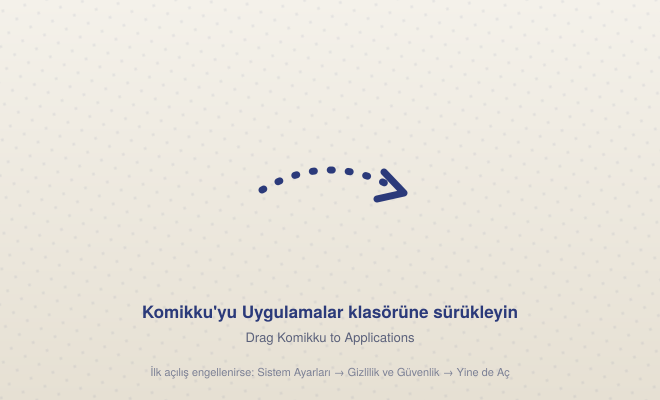
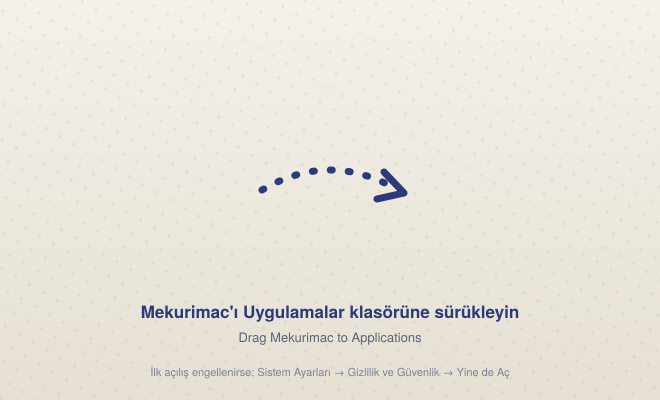
Rename to Mekurimac
The app is now Mekurimac (display name, bundle, release assets, DMG);
the repository moves to yunusemrecan/mekurimac. Unchanged on purpose:
bundle id, data/log folders, keychain items and the komikku:// scheme,
so existing installs keep their library, settings and shortcuts. The
in-app updater accepts both the new and the old asset names.

Claude-Session: https://claude.ai/code/session_01ALiL3CBzs76gALLKhNNmFt

Changed region(s): [[0.2121, 0.75, 0.7879, 0.87]]

diff --git a/app/Sources/Komikku/SettingsView.swift b/app/Sources/Komikku/SettingsView.swift
@@ -59,7 +59,7 @@ struct GeneralSettings: View {
                     .onChange(of: dockBadge) { _, _ in model.updateDockBadge() }
                 Toggle("Kütüphaneyi Spotlight'ta göster", isOn: $spotlight)
                     .onChange(of: spotlight) { _, _ in SpotlightIndex.update(with: model.library) }
-                Toggle("Yeni Komikku sürümlerini denetle", isOn: $checkUpdates)
+                Toggle("Yeni Mekurimac sürümlerini denetle", isOn: $checkUpdates)
                 Toggle("Masaüstü bildirimleri", isOn: Binding(
                     get: { model.settings["desktop-notifications"] as? Bool ?? false },
                     set: { value in Task { @MainActor in await model.setDesktopNotifications(value) } }
@@ -123,7 +123,7 @@ struct AboutSettings: View {
             Image(nsImage: NSApp.applicationIconImage)
                 .resizable()
                 .frame(width: 72, height: 72)
-            Text("Komikku for macOS").font(.title2.bold())
+            Text("Mekurimac").font(.title2.bold())
             Text("Valéry Febvre'nin Komikku uygulamasının macOS arayüzü.\nSunucular ve veri katmanı upstream'den olduğu gibi kullanılır.")
                 .multilineTextAlignment(.center)
                 .foregroundStyle(.secondary)
@@ -132,12 +132,12 @@ struct AboutSettings: View {
             }
             if let commit = Self.buildCommit {
                 Link("Derleme: \(commit.prefix(8))",
-                     destination: URL(string: "https://github.com/yunusemrecan/komikku-mac/tree/\(commit)")!)
+                     destination: URL(string: "https://github.com/yunusemrecan/mekurimac/tree/\(commit)")!)
                     .font(.caption.monospaced())
             }
             Text("GPL-3.0-or-later — özgür yazılım; kaynak kodu aşağıdaki depolarda.")
                 .font(.caption).foregroundStyle(.secondary)
-            Link("github.com/yunusemrecan/komikku-mac", destination: URL(string: "https://github.com/yunusemrecan/komikku-mac")!)
+            Link("github.com/yunusemrecan/mekurimac", destination: URL(string: "https://github.com/yunusemrecan/mekurimac")!)
             Link("codeberg.org/valos/Komikku", destination: URL(string: "https://codeberg.org/valos/Komikku")!)
             HStack {
                 Button("Üçüncü Taraf Lisansları") { Self.open("THIRD-PARTY-NOTICES.txt") }

diff --git a/app/Sources/Komikku/AppUpdater.swift b/app/Sources/Komikku/AppUpdater.swift
@@ -2,7 +2,7 @@
 //
 // In-app update: downloads the release ZIP, checks it against the release's
 // SHA256SUMS, checks the new app's signature, bundle id and build commit, then
-// swaps the app bundle after Komikku quits and starts the new version.
+// swaps the app bundle after the app quits and starts the new version.
 //
 // Falls back to opening the release page when the app cannot replace itself
 // (read-only location, run from the disk image / App Translocation, dev build).
@@ -46,7 +46,7 @@ enum AppUpdater {
         }
         let expected = sums.split(separator: "\n")
             .map { $0.split(separator: " ", omittingEmptySubsequences: true) }
-            .first { $0.count == 2 && $0[1].hasSuffix("Komikku-macos-arm64.zip") }
+            .first { $0.count == 2 && $0[1].hasSuffix(zipURL.lastPathComponent) }
             .map { String($0[0]).lowercased() }
         guard let expected else {
             throw UpdateError.message(String(localized: "SHA256SUMS içinde ZIP'in sağlaması yok"))
@@ -55,7 +55,7 @@ enum AppUpdater {
         guard (response as? HTTPURLResponse)?.statusCode == 200 else {
             throw UpdateError.message(String(localized: "Güncelleme indirilemedi"))
         }
-        let zip = work.appendingPathComponent("Komikku.zip")
+        let zip = work.appendingPathComponent("update.zip")
         try FileManager.default.moveItem(at: downloaded, to: zip)
 
         // 2. Integrity
@@ -74,7 +74,11 @@ enum AppUpdater {
 
         // 3. Unpack and check the new bundle
         try await run("/usr/bin/ditto", ["-x", "-k", zip.path, work.path])
-        let newApp = work.appendingPathComponent("Komikku.app")
+        // Mekurimac.app (or Komikku.app in releases made before the rename)
+        guard let newApp = try FileManager.default.contentsOfDirectory(at: work, includingPropertiesForKeys: nil)
+            .first(where: { $0.pathExtension == "app" }) else {
+            throw UpdateError.message(String(localized: "İndirilen uygulama tanınmadı"))
+        }
         guard let info = NSDictionary(contentsOf: newApp.appendingPathComponent("Contents/Info.plist")),
               info["CFBundleIdentifier"] as? String == Bundle.main.bundleIdentifier else {
             throw UpdateError.message(String(localized: "İndirilen uygulama tanınmadı"))

diff --git a/app/Sources/Komikku/MenuBar.swift b/app/Sources/Komikku/MenuBar.swift
@@ -62,7 +62,7 @@ struct MenuBarContent: View {
         Button("Kütüphaneyi Güncelle") { Task { await model.updateLibrary() } }
             .keyboardShortcut("r")
             .disabled(model.isUpdatingLibrary || model.state != .ready)
-        Button("Komikku'yu Aç") {
+        Button("Mekurimac'ı Aç") {
             openWindow(id: "main")
             NSApp.activate(ignoringOtherApps: true)
         }
@@ -70,7 +70,7 @@ struct MenuBarContent: View {
         Divider()
         SettingsLink { Text("Ayarlar…") }
             .keyboardShortcut(",")
-        Button("Komikku'dan Çık") { NSApp.terminate(nil) }
+        Button("Mekurimac'tan Çık") { NSApp.terminate(nil) }
             .keyboardShortcut("q")
     }
 }
@@ -85,7 +85,7 @@ struct MenuBarLabel: View {
             Image(systemName: model.isUpdatingLibrary ? "arrow.triangle.2.circlepath" : "books.vertical")
             if unread > 0 { Text("\(unread)").monospacedDigit() }
         }
-        .accessibilityLabel(Text("Komikku: \(unread) okunmamış bölüm"))
+        .accessibilityLabel(Text("Mekurimac: \(unread) okunmamış bölüm"))
     }
 }
 

diff --git a/app/Sources/Komikku/UpdateChecker.swift b/app/Sources/Komikku/UpdateChecker.swift
@@ -15,7 +15,7 @@ struct AvailableUpdate: Equatable {
 }
 
 enum UpdateChecker {
-    static let releaseAPI = URL(string: "https://api.github.com/repos/yunusemrecan/komikku-mac/releases/tags/nightly")!
+    static let releaseAPI = URL(string: "https://api.github.com/repos/yunusemrecan/mekurimac/releases/tags/nightly")!
     static let lastCheckKey = "update-last-check"
     static let enabledKey = "check-updates"
 
@@ -64,7 +64,8 @@ enum UpdateChecker {
             }
             return .available(AvailableUpdate(
                 title: json["name"] as? String ?? String(localized: "Yeni sürüm"), pageURL: page, commit: target,
-                zipURL: asset("Komikku-macos-arm64.zip"), checksumsURL: asset("SHA256SUMS")
+                // releases before the rename are named Komikku-…
+                zipURL: asset("Mekurimac-macos-arm64.zip") ?? asset("Komikku-macos-arm64.zip"), checksumsURL: asset("SHA256SUMS")
             ))
         } catch {
             return .unknown(error.localizedDescription)

diff --git a/app/Sources/Komikku/AppModel.swift b/app/Sources/Komikku/AppModel.swift
@@ -168,7 +168,7 @@ final class AppModel {
         case .upToDate:
             availableUpdate = nil
             AppLog.write("update: up to date")
-            if manual { showToast(String(localized: "Komikku güncel")) }
+            if manual { showToast(String(localized: "Mekurimac güncel")) }
         case .unknown(let reason):
             AppLog.write("update: check failed: \(reason)")
             if manual { showToast(String(localized: "Güncelleme denetlenemedi: \(reason)")) }
@@ -316,7 +316,7 @@ final class AppModel {
             if !downloaderRunning { Task { await reloadDownloads() } }
 
         case "app.notification":
-            let title = params["title"] as? String ?? "Komikku"
+            let title = params["title"] as? String ?? "Mekurimac"
             let body = params["body"] as? String
             if settings["desktop-notifications"] as? Bool == true {
                 postNotification(id: params["id"] as? String ?? UUID().uuidString, title: title, body: body)

diff --git a/app/Sources/Komikku/IssueReport.swift b/app/Sources/Komikku/IssueReport.swift
@@ -8,7 +8,7 @@ import AppKit
 
 @MainActor
 enum IssueReport {
-    static let newIssueURL = "https://github.com/yunusemrecan/komikku-mac/issues/new"
+    static let newIssueURL = "https://github.com/yunusemrecan/mekurimac/issues/new"
 
     /// Last `count` lines of a log file, with the home folder path hidden.
     static func tail(_ url: URL, lines count: Int) -> String {
@@ -44,7 +44,7 @@ enum IssueReport {
         ---
         | | |
         |---|---|
-        | Komikku for macOS | \(version) (\(build)), commit `\(commit)` |
+        | Mekurimac | \(version) (\(build)), commit `\(commit)` |
         | Upstream Komikku | `\(model.upstreamCommit ?? "?")` |
         | macOS | \(os), \(arch) |
         | Language | \(language) |

diff --git a/app/Sources/Komikku/BackupUI.swift b/app/Sources/Komikku/BackupUI.swift
@@ -15,7 +15,7 @@ enum BackupUI {
         panel.title = String(localized: "Kütüphaneyi Yedekle")
         panel.message = String(localized: "Kütüphane, kategoriler, okuma geçmişi ve ayarlar tek dosyaya kaydedilir. İndirilen bölümler dahil değildir.")
         let day = Date().formatted(.iso8601.year().month().day())
-        panel.nameFieldStringValue = "Komikku \(day).\(fileExtension)"
+        panel.nameFieldStringValue = "Mekurimac \(day).\(fileExtension)"
         panel.allowedContentTypes = [UTType(filenameExtension: fileExtension) ?? .zip]
         panel.canCreateDirectories = true
         guard panel.runModal() == .OK, let url = panel.url else { return }

diff --git a/app/Sources/Komikku/ContentView.swift b/app/Sources/Komikku/ContentView.swift
@@ -377,7 +377,7 @@ struct Sidebar: View {
                             Button(AppUpdater.canSelfUpdate ? "Güncelle" : "İndir") { model.installUpdate() }
                                 .controlSize(.small)
                                 .help(AppUpdater.canSelfUpdate
-                                      ? "İndirir, doğrular ve Komikku'yu yeni sürümle yeniden başlatır"
+                                      ? "İndirir, doğrular ve Mekurimac'ı yeni sürümle yeniden başlatır"
                                       : "Sürüm sayfasını açar")
                         }
                     }

diff --git a/app/Sources/Komikku/KomikkuApp.swift b/app/Sources/Komikku/KomikkuApp.swift
@@ -52,7 +52,7 @@ struct KomikkuApp: App {
 
     var body: some Scene {
         // A single main window: links and Spotlight results always land in it
-        Window("Komikku", id: "main") {
+        Window("Mekurimac", id: "main") {
             ContentView()
                 .environment(model)
                 .frame(minWidth: 820, minHeight: 520)

diff --git a/scripts/third_party_notices.py b/scripts/third_party_notices.py
@@ -81,8 +81,8 @@ def main():
     copyleft = set()
 
     out.append(
-        "Komikku for macOS — third-party notices\n\n"
-        "Komikku for macOS (https://github.com/yunusemrecan/komikku-mac) is free software\n"
+        "Mekurimac (macOS interface for Komikku) — third-party notices\n\n"
+        "Mekurimac (https://github.com/yunusemrecan/mekurimac) is free software\n"
         "under the GNU General Public License v3.0 or later (see LICENSE in this folder).\n"
         "It bundles the unmodified Komikku application by Valéry Febvre and contributors\n"
         "(https://codeberg.org/valos/Komikku, GPL-3.0-or-later), a standalone CPython\n"

diff --git a/scripts/dmg_settings.py b/scripts/dmg_settings.py
@@ -1,6 +1,6 @@
 # SPDX-License-Identifier: GPL-3.0-or-later
 # dmgbuild settings: drag-to-Applications window.
-#   dmgbuild -s scripts/dmg_settings.py -D app=dist/Komikku.app -D root=. "Komikku" dist/Komikku.dmg
+#   dmgbuild -s scripts/dmg_settings.py -D app=dist/Mekurimac.app -D root=. "Mekurimac" dist/Mekurimac.dmg
 
 import os.path
 

diff --git a/README.md b/README.md
@@ -1,4 +1,6 @@
-# Komikku for macOS
+# Mekurimac
+
+*A macOS interface for [Komikku](https://codeberg.org/valos/Komikku). Formerly “Komikku for macOS” (`komikku-mac`).*
 
 > [!WARNING]
 > **🤖 This app was written by an AI, not by a human programmer.**
@@ -28,7 +30,7 @@
 
 ---
 
-Native macOS (SwiftUI) front end for [Komikku](https://codeberg.org/valos/Komikku), the manga reader by Valéry Febvre.
+**Mekurimac** (from *mekuri*, Japanese for turning a page) is a native macOS (SwiftUI) front end for [Komikku](https://codeberg.org/valos/Komikku), the manga reader by Valéry Febvre.
 
 The GTK user interface is rewritten in SwiftUI; everything else — the 380+ server
 plugins, the SQLite database, downloads and page caching — is upstream Komikku's own
@@ -58,17 +60,17 @@ calls back into the app, which drives a `WKWebView` and shows a window when a ca
 
 ## Install
 
-Download **`Komikku-macos-arm64.dmg`** from **Releases → nightly** (or a tagged release), open it and drag
-Komikku to Applications. Requires macOS 14+ and Apple Silicon.
+Download **`Mekurimac-macos-arm64.dmg`** from **Releases → nightly** (or a tagged release), open it and drag
+Mekurimac to Applications. Requires macOS 14+ and Apple Silicon.
 
 The app is ad-hoc signed, not notarized by Apple, so macOS blocks the first launch. Either:
 
-- open **System Settings → Privacy & Security** and click **Open Anyway** next to the Komikku message
+- open **System Settings → Privacy & Security** and click **Open Anyway** next to the Mekurimac message
   (on macOS 15 and later, right-click → Open no longer does this), or
 - run once in Terminal:
 
   ```sh
-  xattr -dr com.apple.quarantine /Applications/Komikku.app
+  xattr -dr com.apple.quarantine /Applications/Mekurimac.app
   ```
 
 A `.zip` of the same app is published too.
@@ -79,13 +81,13 @@ Every build publishes its SHA256 and a GitHub [build provenance attestation](htt
 so you can check that a zip was built by this repository's CI from this source:
 
 ```sh
-shasum -a 256 Komikku-macos-arm64.dmg        # compare with the release notes / SHA256SUMS
-gh attestation verify Komikku-macos-arm64.dmg -R yunusemrecan/komikku-mac
+shasum -a 256 Mekurimac-macos-arm64.dmg        # compare with the release notes / SHA256SUMS
+gh attestation verify Mekurimac-macos-arm64.dmg -R yunusemrecan/mekurimac
 ```
 
 ## Shortcuts, Spotlight, links
 
-Komikku answers `komikku://` links, so the **Shortcuts** app ("Open URLs" action), Terminal, Raycast or
+Mekurimac answers `komikku://` links (the scheme keeps its original name), so the **Shortcuts** app ("Open URLs" action), Terminal, Raycast or
 Alfred can drive it:
 
 | Link | Action |
@@ -141,9 +143,9 @@ Library mangas are also indexed in **Spotlight** (⌘Space, type a title); this 
 On a Mac with Xcode 15+:
 
 ```sh
-git clone --recursive https://github.com/yunusemrecan/komikku-mac
-cd komikku-mac
-scripts/build_app.sh            # -> dist/Komikku.app, .dmg and .zip
+git clone --recursive https://github.com/yunusemrecan/mekurimac
+cd mekurimac
+scripts/build_app.sh            # -> dist/Mekurimac.app, .dmg and .zip
 ```
 
 Every push to `main` is built by GitHub Actions on macOS and published as the `nightly` release.
@@ -187,7 +189,7 @@ GPL-3.0-or-later, like Komikku.
 The app bundles third-party software under its own licenses (MIT, BSD, Apache-2.0,
 PSF, MPL-2.0, GPL-2.0+, AGPL-3.0+ and others). Every license text is collected at
 build time by `scripts/third_party_notices.py` into
-`Komikku.app/Contents/Resources/Licenses/THIRD-PARTY-NOTICES.txt` (Settings › About ›
+`Mekurimac.app/Contents/Resources/Licenses/THIRD-PARTY-NOTICES.txt` (Settings › About ›
 Third-party licenses); the build fails if a package has no license text. Texts that
 are not shipped inside the Python wheels live in [`licenses/`](licenses/). Packages
 under copyleft licenses (Unidecode, EbookLib, certifi) keep their Python sources in
